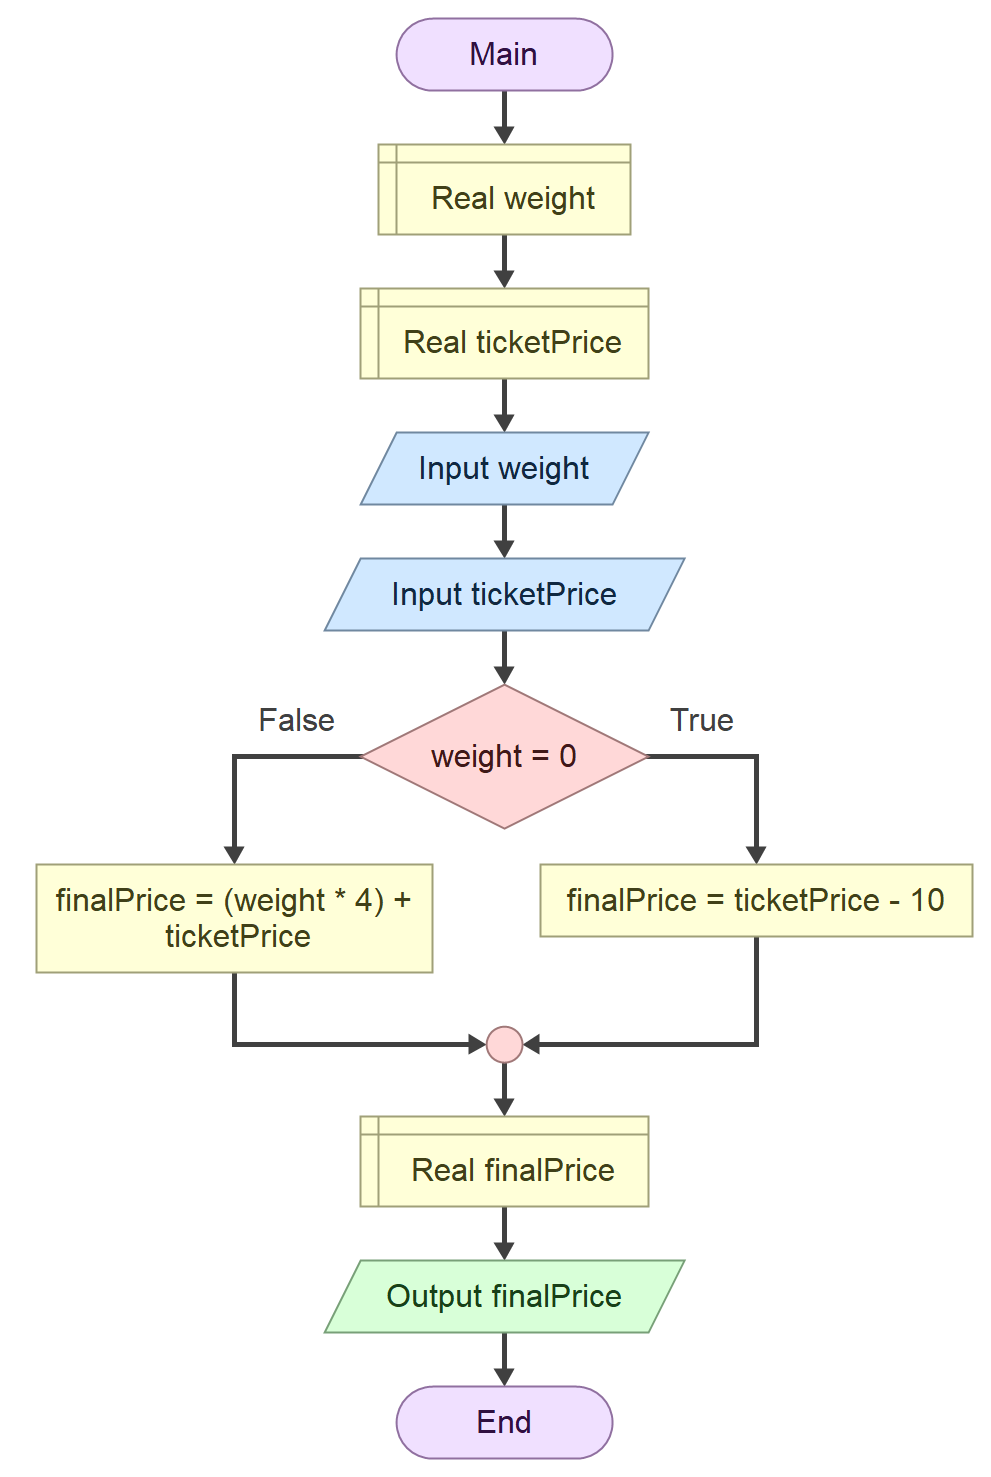
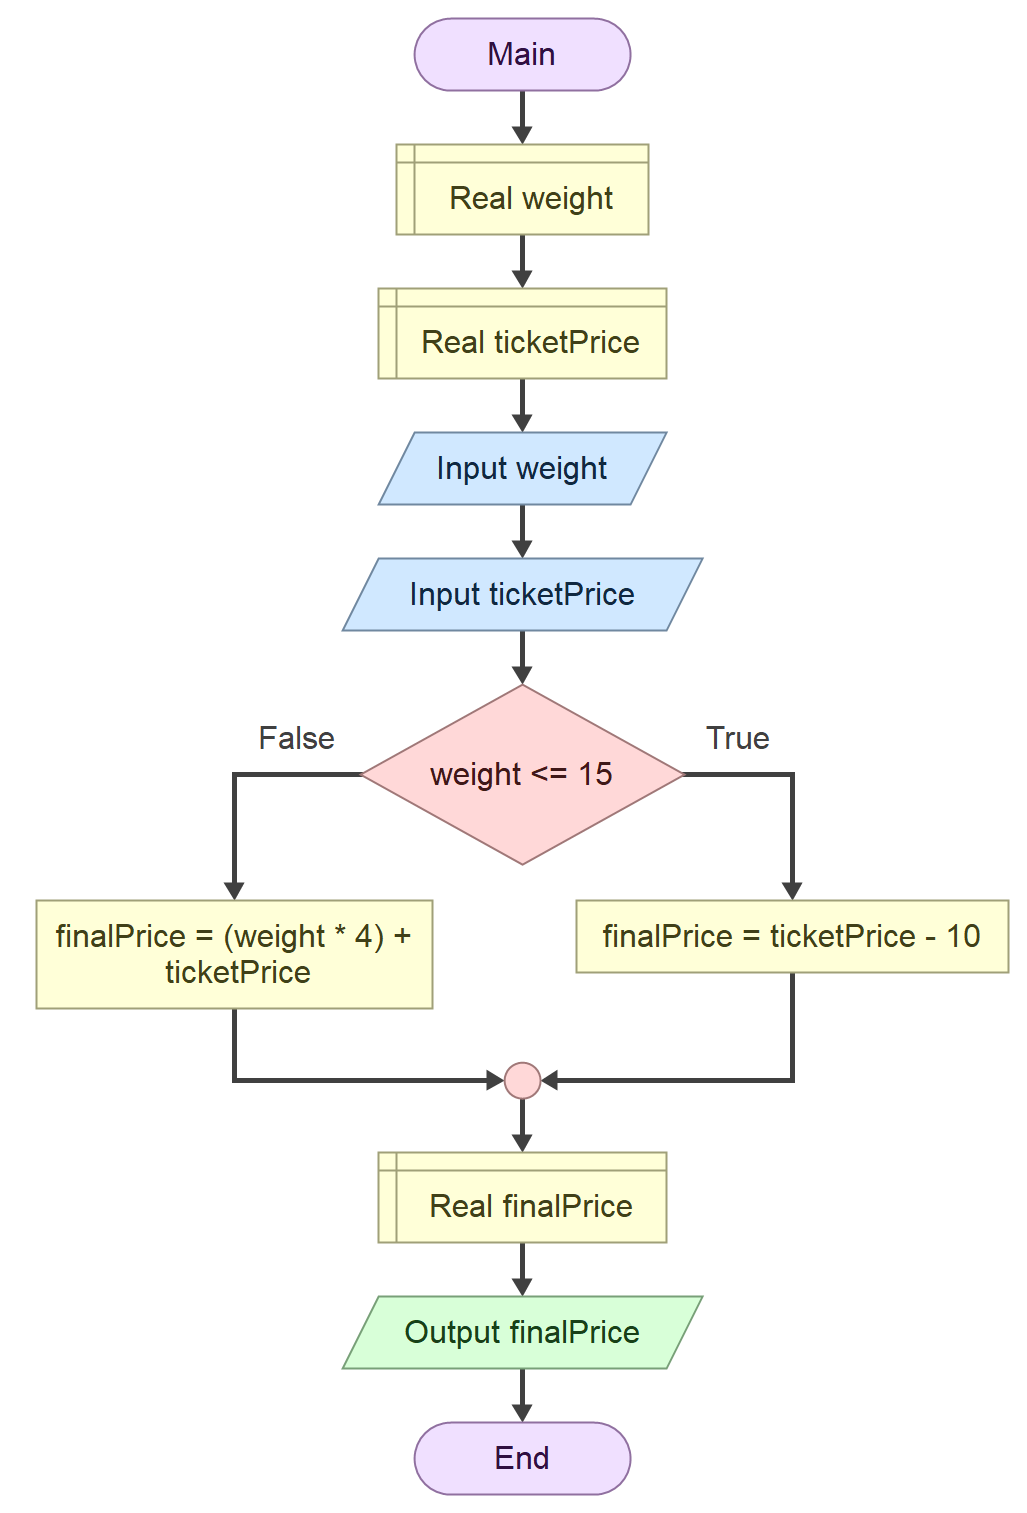
yeah

Changed region(s): [[0.0303, 0.0, 0.999, 0.9966], [0.666, 0.4672, 0.7568, 0.4983], [0.2422, 0.4672, 0.333, 0.4983]]

diff --git a/labs/lab04/exercise4/lab-4-4.py b/labs/lab04/exercise4/lab-4-4.py
@@ -1,7 +1,8 @@
 weight = float(input())
 ticketPrice = float(input())
-if weight == 0:
+if weight <= 15:
     finalPrice = ticketPrice - 10
 else:
-    finalPrice = (weight * 4) + ticketPrice
+    finalPrice = (weight * 4 )+ ticketPrice
 print(finalPrice)
+